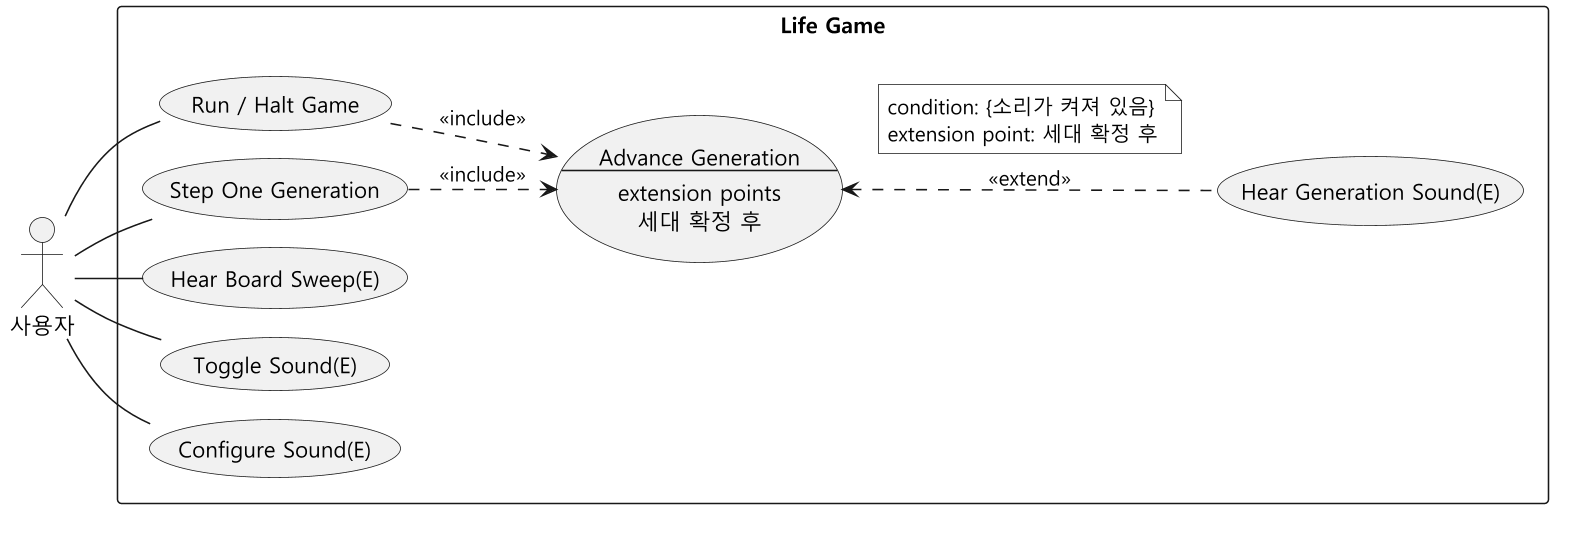
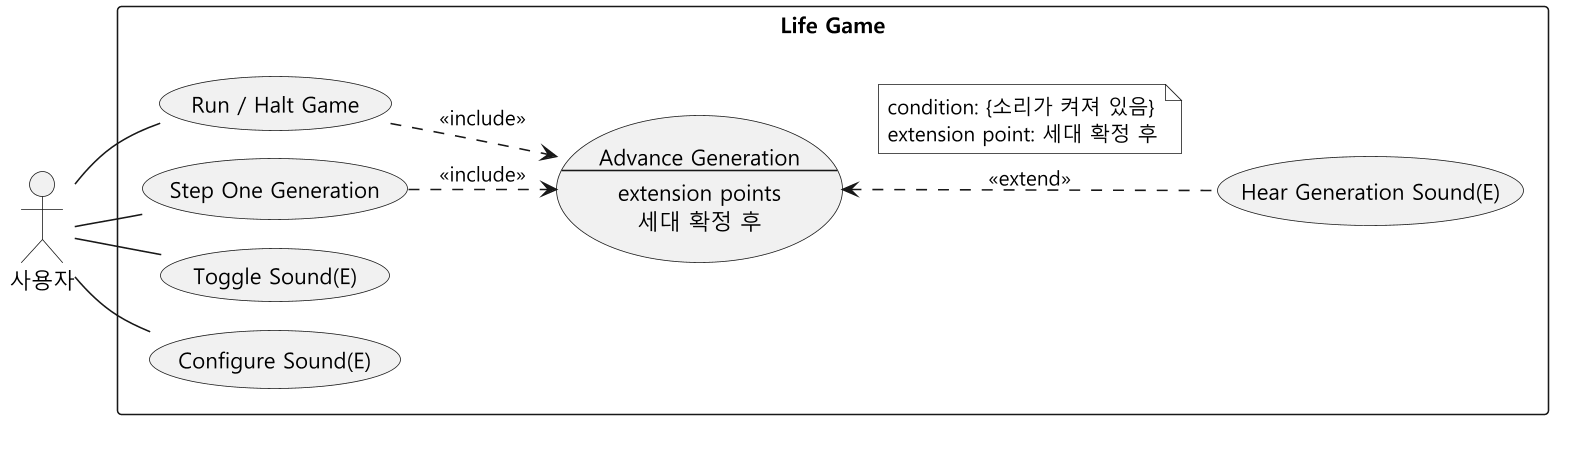
docs(sound): 유스케이스를 전체 유스케이스 다이어그램에 맞춤
- 전체 유스케이스 다이어그램의 사운드 유스케이스는 Hear Generation Sound(E),
  Toggle Sound(E), Configure Sound(E) 세 개라서, 사운드 그림에서 Hear Board
  Sweep(E)와 사용자 연관을 지움
- 재생선은 소리가 켜져 있는 동안 타이머로 도는 동작이라 따로 유스케이스로 두지
  않고 Toggle Sound(E)에 묶음. 재생선이 하는 일은 요구사항 F7, F8과 연산 계약
  CO3에 남기고, 지운 명세에만 있던 강세와 빈 구간 처리를 F7로 옮김
- 기능 명세의 유스케이스 번호를 UC-S1~UC-S3으로 당기고, 요구사항 표와 연산 계약의
  참조, 설계 문서·보고서의 유스케이스 표, 재생선 시퀀스 그림의 제목을 새 구성에
  맞춤
- 연산 계약 CO4에 dragCells()의 유스케이스 Draw Cells by Dragging(E)를 넣음
- Advance Generation의 확장 지점 중 사운드와 관계없는 "다음 세대 계산 후"를
  그리지 않은 이유를 적음

Refs #2

diff --git a/docs/sound-effects/sound-effects-spec.md b/docs/sound-effects/sound-effects-spec.md
@@ -77,7 +77,7 @@ MIDI 신시사이저를 열 수 없는 환경에서는 `Sound disabled: ...` 한
 
 ### 2.1 유스케이스 목록
 
-기존 기능과 추가 기능을 나눠 적었다. 추가한 유스케이스는 이름 끝에 `(E)`를 붙였고, 기존 유스케이스 이름은 팀 전체 유스케이스 다이어그램과 같게 맞췄다.
+기존 기능과 추가 기능을 나눠 적었다. 추가한 유스케이스는 이름 끝에 `(E)`를 붙였다. 유스케이스 이름과 관계는 팀 전체 유스케이스 다이어그램([usecase-overview.png](../usecase-overview.png))의 사운드 부분과 같다.
 
 | 구분 | 유스케이스 | 사운드와의 관계 |
 |---|---|---|
@@ -88,18 +88,17 @@ MIDI 신시사이저를 열 수 없는 환경에서는 `Sound disabled: ...` 한
 | 기존 | Clear Board, Store / Load Board | Clear와 Load로 바뀐 판을 재생선이 다음 스텝부터 연주한다 |
 | 기존 | Exit Game | 관계 없음 |
 | 추가 (UC-S1) | Hear Generation Sound(E) | Advance Generation을 확장한다. 조건은 소리가 켜져 있을 때다 |
-| 추가 (UC-S2) | Hear Board Sweep(E) | 사용자와 직접 연관. 게임 진행과 상관없이 동작한다 |
-| 추가 (UC-S3) | Toggle Sound(E) | 사용자와 직접 연관 |
-| 추가 (UC-S4) | Configure Sound(E) | 사용자와 직접 연관 |
+| 추가 (UC-S2) | Toggle Sound(E) | 사용자와 직접 연관. 켜져 있는 동안 재생선이 돈다 |
+| 추가 (UC-S3) | Configure Sound(E) | 사용자와 직접 연관 |
 
 ![사운드 이펙트 유스케이스 다이어그램](diagram/usecase.png)
 
-그림 원본은 [diagram/usecase.puml](diagram/usecase.puml)이다. 시스템 경계는 "Life Game" 상자 하나다. 기존 유스케이스는 사운드와 «include»·«extend»로 이어지는 Run / Halt Game, Step One Generation, Advance Generation만 그렸다. Edit Cells, Clear Board, Store / Load Board, Exit Game은 사운드와 이런 관계가 없어서 위 표에만 적었다. 그림에 있는 관계는 이렇다.
+그림 원본은 [diagram/usecase.puml](diagram/usecase.puml)이다. 시스템 경계는 "Life Game" 상자 하나다. 기존 유스케이스는 사운드와 «include»·«extend»로 이어지는 Run / Halt Game, Step One Generation, Advance Generation만 그렸다. Edit Cells, Clear Board, Store / Load Board, Exit Game은 사운드와 이런 관계가 없어서 위 표에만 적었다. Advance Generation에는 Freezing 기능이 쓰는 확장 지점("다음 세대 계산 후")도 있지만, 사운드와 관계가 없어 그림에는 적지 않았다. 그림에 있는 관계는 이렇다.
 
 - «include»: 게임을 실행하면(Run / Halt Game) 틱마다, Step One Generation을 고르면 한 번 세대가 진행된다(Advance Generation). 할 때마다 반드시 따라오는 일이라 include로 그렸다. Halt는 세대 진행을 멈추기만 한다.
 - «extend»: 세대가 확정된 뒤(확장점 "세대 확정 후") 소리가 켜져 있을 때만 Hear Generation Sound(E)가 끼어든다. 소리가 꺼져 있어도 세대 진행에는 아무 문제가 없어서 extend로 그렸다.
 - Hear Generation Sound(E)는 사용자가 직접 시작하는 일이 아니라 세대 진행에 붙어서 일어나서, 사용자와 선으로 잇지 않았다.
-- Hear Board Sweep(E)는 게임 진행과 관계없이 150ms 타이머로 돌아서 기존 유스케이스와 include·extend 관계가 없다.
+- 재생선은 따로 유스케이스로 두지 않았다. 사용자가 그때마다 요청하는 일이 아니라, 소리가 켜져 있는 동안 150ms 타이머로 계속 도는 동작이기 때문이다. 소리 전체를 켜고 끄는 Toggle Sound(E)(UC-S2)에 묶었고, 재생선이 하는 일은 요구사항 F7, F8과 연산 계약 CO3([sound-uml.md](sound-uml.md) 4.3절)에 적었다. 설정 창에서 재생선만 끄는 것은 Configure Sound(E)(UC-S3)다.
 
 ### 2.2 유스케이스 명세
 
@@ -131,42 +130,17 @@ MIDI 신시사이저를 열 수 없는 환경에서는 `Sound disabled: ...` 한
 - 1d. 직전 세대 소리를 낸 지 120ms가 지나지 않았으면 이번 세대는 건너뛴다. 빠른 속도에서 소리가 뭉치지 않게 하려고 넣었다.
 - 3a. 한 세대에 12개 이상 생기면 같은 화음을 한 옥타브 위에서 조금 작게 한 번 더 낸다.
 - 4a. 작은 흔들림이 켜져 있으면 음마다 시작이 0~15ms 늦어지고 세기가 조금씩 달라지며, 가끔 한 옥타브 위 음이 섞인다.
-- 4b. 설정에서 끈 항목은 UC-S4의 설정 항목 표대로 동작이 바뀐다. 예를 들어 스트럼을 끄면 음 사이의 25ms 간격 없이 내고, 코드 진행을 끄면 늘 C 코드의 5음을 쓴다.
+- 4b. 설정에서 끈 항목은 UC-S3의 설정 항목 표대로 동작이 바뀐다. 예를 들어 스트럼을 끄면 음 사이의 25ms 간격 없이 내고, 코드 진행을 끄면 늘 C 코드의 5음을 쓴다.
 
-#### UC-S2 Hear Board Sweep(E)
-
-| 항목 | 내용 |
-|---|---|
-| 목표 | 게임을 멈춰 둔 상태에서도 지금 판의 모양을 소리로 듣는다 |
-| 액터 | 사용자 |
-| 시작 | 프로그램이 시작되면 150ms마다 저절로 진행한다 |
-| 사전 조건 | MIDI 신시사이저가 열려 있다. `Sound`가 `On`이다. 게임이 실행 중이든 멈춰 있든 상관없다 |
-| 사후 조건 | 재생선 위치가 판 위에 초록 선으로 표시되고, 선 아래 산 셀의 소리가 예약된다 |
-
-기본 흐름
-
-1. 150ms마다 시스템은 재생선을 4열 오른쪽으로 옮기고 그 자리에 초록 선을 그린다.
-2. 시스템은 재생선이 지나는 4열 안의 산 셀로 최대 3음을 낸다. 4스텝에 한 번은 조금 더 세게 내서 박자가 느껴지게 한다.
-3. 시스템은 현재 코드의 패드를 낸다. 산 셀이 많을수록 크게 내되 상한이 있다.
-4. 16스텝(64열, 약 2.4초)을 돌면 처음으로 돌아가고, 코드가 C → Am → F → G 순서로 바뀐다. 생성음과 재생선이 쓰는 5음도 함께 바뀐다.
-
-대안 흐름
-
-- 1a. 사용자가 셀을 편집하거나(Edit Cells, Draw Cells by Dragging(E)) Clear, Load, 템플릿 배치·되돌리기(Place Template(E), Undo Placement(E))를 하면 다음 스텝부터 바뀐 판을 연주한다.
-- 1b. 설정에서 재생선을 끄면 선을 지우고 연주하지 않는다. 패드는 따로 켜고 끈다.
-- 2a. 재생선이 지나는 4열에 산 셀이 없으면 그 스텝은 조용하다.
-- 3a. 판이 비어 있거나 설정에서 패드를 끄면 패드를 끈다. 재생선은 계속 움직인다.
-- 4a. 설정에서 코드 진행을 끄면 코드는 C에 머문다.
-
-#### UC-S3 Toggle Sound(E)
+#### UC-S2 Toggle Sound(E)
 
 | 항목 | 내용 |
 |---|---|
 | 목표 | 소리를 잠시 끄거나 다시 켠다 |
 | 액터 | 사용자 |
 | 시작 | 사용자가 `Sound` 메뉴에서 `Off` 또는 `On`을 고른다 |
-| 사전 조건 | MIDI 신시사이저가 열려 있다. 열 수 없으면 `Sound` 메뉴가 생기지 않는다 |
-| 사후 조건 | Off면 새 소리를 예약하지 않고, 다음 스텝에 패드를 끄고 재생선을 지운다. 이미 예약된 음은 예정대로 울리고 꺼진다. On이면 다음 스텝부터 다시 연주한다 |
+| 사전 조건 | MIDI 신시사이저가 열려 있다. 열 수 없으면 `Sound` 메뉴가 생기지 않는다. 프로그램을 시작하면 소리는 켜져 있다 |
+| 사후 조건 | Off면 새 소리를 예약하지 않고, 다음 스텝에 패드를 끄고 재생선을 지운다. 이미 예약된 음은 예정대로 울리고 꺼진다. On이면 다음 스텝부터 재생선이 다시 돌며 판을 연주한다 |
 
 기본 흐름
 
@@ -180,7 +154,9 @@ MIDI 신시사이저를 열 수 없는 환경에서는 `Sound disabled: ...` 한
 - 2a. Off인 동안에도 판이 바뀐 내용은 계속 받아 둔다. 그래서 On으로 바꾸면 그 사이에 편집한 판을 바로 연주한다.
 - 2b. Off를 고르기 전에 이미 예약된 음은 예정대로 울리고 꺼진다.
 
-#### UC-S4 Configure Sound(E)
+켜져 있는 동안 재생선은 150ms마다 4열씩 움직여 16스텝(약 2.4초)에 판을 한 바퀴 돈다. 지나는 구간의 산 셀을 연주하고, 밑에는 현재 코드의 패드를 깐다. 게임이 실행 중이든 멈춰 있든 같고, 셀 편집(Edit Cells, Draw Cells by Dragging(E)), Clear, Load, 템플릿 배치·되돌리기(Place Template(E), Undo Placement(E))로 바뀐 판은 다음 스텝부터 연주한다. 자세한 동작은 요구사항 F7, F8에 있다.
+
+#### UC-S3 Configure Sound(E)
 
 | 항목 | 내용 |
 |---|---|
@@ -229,11 +205,11 @@ MIDI 신시사이저를 열 수 없는 환경에서는 `Sound disabled: ...` 한
 | F4 | 12개 이상 생긴 세대는 한 옥타브 위 화음을 조금 작게 겹친다 | UC-S1 | `smallGenerationsHaveNoBurstLayer`, `burstLayerDoublesNotesAnOctaveHigherAndQuieter`, `largeBirthEventKeepsTheBurstLayer` |
 | F5 | 변화가 없는 세대와, 세대 진행이 아닌 판 변경(편집·Clear·Load·템플릿·색 변경)은 세대 소리를 내지 않는다 | UC-S1 | `stableAndEmptyGenerationsNeverScheduleGenerationSounds`, `nonGenerationEventUpdatesSweepWithoutGenerationSounds`, `realColorMenuRefreshesStatisticsWithoutSchedulingGenerationSound` |
 | F6 | 같은 변화가 되풀이되면 12번에 걸쳐 무음까지 줄이고, 새 변화가 오면 원래 크기로 돌아간다. 판이 전멸하면 마무리 화음을 한 번 낸다 | UC-S1 | `RepeatTrackerTest` 3개, `scalingLowersLoudnessOnly`, `endingChordIsAboveThePadOfTheSameChord`, `extinctionPlaysOneEndingAndLaterEmptyTicksStaySilent` |
-| F7 | 재생선은 150ms마다 4열씩 움직이며 그 구간의 산 셀을 최대 3음으로 연주하고, 판 위에 초록 선으로 보인다. 게임이 멈춰 있어도 동작하고 편집한 판을 반영한다 | UC-S2 | `sweepPlaysOnlyCellsInTheColumnBlock`, `sweepLimitsVoicesAndAccentsTheBeat`, `sweepOfAnEmptyBlockIsSilent`, `playheadIsDrawnOverTheBoardAndCanBeRemoved`, `initialSnapshotIsReadyBeforeTheFirstScheduledSweep` |
+| F7 | 재생선은 150ms마다 4열씩 움직이며 그 구간의 산 셀을 최대 3음으로 연주하고, 4스텝마다 조금 세게 낸다. 산 셀이 없는 구간은 조용하다. 판 위에 초록 선으로 보인다. 게임이 멈춰 있어도 동작하고 편집한 판을 반영한다 | UC-S2 | `sweepPlaysOnlyCellsInTheColumnBlock`, `sweepLimitsVoicesAndAccentsTheBeat`, `sweepOfAnEmptyBlockIsSilent`, `playheadIsDrawnOverTheBoardAndCanBeRemoved`, `initialSnapshotIsReadyBeforeTheFirstScheduledSweep` |
 | F8 | 재생선이 한 바퀴 돌 때마다 코드가 C → Am → F → G로 바뀌고 패드도 같은 코드를 따른다. 패드는 산 셀이 많을수록 커지고 빈 판이면 꺼진다 | UC-S2 | `sameCellChangesPitchAcrossTheProgression`, `progressionWrapsAround`, `padFollowsTheProgression`, `padGrowsWithLiveCellsUpToACapAndStopsOnAnEmptyBoard` |
 | F9 | 작은 흔들림은 세기를 ±8, 시작을 0~15ms 바꾸고, 12% 확률로 한 옥타브 올린다 | UC-S1, UC-S2 | `humanizingKeepsNotesValidAndVariesThem`, `timingJitterStaysSmall` |
-| F10 | `Sound` → `Off`면 새 소리를 예약하지 않고 다음 스텝에 패드와 재생선을 멈춘다. 이미 예약된 음은 예정대로 끝난다. `On`으로 바꾸면 Off 동안 바뀐 판을 연주한다 | UC-S3 | `disabledSoundStillReceivesEditsForTheNextSweep` |
-| F11 | 설정 창에서 9개 항목을 하나씩 끄고, 5개 항목의 악기를 바꿀 수 있다 | UC-S4 | `SoundSettingsTest` 3개 |
+| F10 | `Sound` → `Off`면 새 소리를 예약하지 않고 다음 스텝에 패드와 재생선을 멈춘다. 이미 예약된 음은 예정대로 끝난다. `On`으로 바꾸면 Off 동안 바뀐 판을 연주한다 | UC-S2 | `disabledSoundStillReceivesEditsForTheNextSweep` |
+| F11 | 설정 창에서 9개 항목을 하나씩 끄고, 5개 항목의 악기를 바꿀 수 있다 | UC-S3 | `SoundSettingsTest` 3개 |
 | F12 | Freezing으로 고정된 셀은 세대 소리를 내지 않고, 풀린 첫 세대부터 다시 들린다. 재생선은 고정된 산 셀도 연주한다 | UC-S1, UC-S2 | `FreezingSoundIntegrationTest` 3개 |
 
 ### 3.2 비기능 요구사항

diff --git a/docs/sound-effects/sound-report.md b/docs/sound-effects/sound-report.md
@@ -11,8 +11,7 @@
 | 유스케이스 | 동작 |
 |---|---|
 | Hear Generation Sound(E) | 세대가 확정되면 생긴 셀을 최대 5음 화음으로 왼쪽 음부터 25ms 간격으로 내고, 사라진 셀이 있으면 60ms 뒤 타악기를 한 번 친다. 위쪽 셀일수록 높은 음이고, 열 위치는 좌우 위치가 된다. Advance Generation의 확장점 "세대 확정 후"에서 소리가 켜져 있을 때만 일어난다 |
-| Hear Board Sweep(E) | 재생선이 150ms마다 4열씩 움직이며 그 구간의 산 셀을 최대 3음으로 연주하고, 밑에는 현재 코드의 저음 패드를 깐다. 게임이 멈춰 있어도 돈다 |
-| Toggle Sound(E) | `Sound` 메뉴의 `On`, `Off`로 소리 전체를 켜고 끈다 |
+| Toggle Sound(E) | `Sound` 메뉴의 `On`, `Off`로 소리 전체를 켜고 끈다. 켜져 있는 동안 재생선이 150ms마다 4열씩 움직이며 그 구간의 산 셀을 최대 3음으로 연주하고, 밑에는 현재 코드의 저음 패드를 깐다. 게임이 멈춰 있어도 돈다 |
 | Configure Sound(E) | `Sound` → `Settings` 창에서 9개 항목을 하나씩 끄고, 5개 항목의 악기를 바꾼다. 모달 창이 아니라서 창을 띄워 둔 채 게임을 진행할 수 있다 |
 
 음높이는 판의 세로 64행을 C3부터 3옥타브(15음)로 나눠 정한다. 한 옥타브 안에서는 현재 코드에 맞춘 5음만 쓰고, 코드는 재생선이 한 바퀴(16스텝, 약 2.4초) 돌 때마다 C → Am → F → G 순서로 바뀐다.
@@ -331,11 +330,11 @@ void everyPitchIsInCMajor()
 
 ## 유스케이스 (사운드 부분)
 
-확장 유스케이스는 Hear Generation Sound(E), Hear Board Sweep(E), Toggle Sound(E), Configure Sound(E) 네 개다. Hear Generation Sound(E)는 Advance Generation의 확장점 "세대 확정 후"에 extend로 붙고, 조건은 소리가 켜져 있는 것이다. Run / Halt Game과 Step One Generation이 Advance Generation을 include하는 구조는 색 순환, Freezing, 통계와 같다. 나머지 세 유스케이스는 사용자와 직접 이어지고, Hear Board Sweep(E)는 150ms 타이머로 돌기 때문에 기존 유스케이스와 include·extend 관계가 없다.
+확장 유스케이스는 Hear Generation Sound(E), Toggle Sound(E), Configure Sound(E) 세 개다. Hear Generation Sound(E)는 Advance Generation의 확장점 "세대 확정 후"에 extend로 붙고, 조건은 소리가 켜져 있는 것이다. Run / Halt Game과 Step One Generation이 Advance Generation을 include하는 구조는 색 순환, Freezing, 통계와 같다. 나머지 두 유스케이스는 사용자와 직접 이어진다. 재생선은 소리가 켜져 있는 동안 150ms 타이머로 계속 도는 동작이라 유스케이스를 따로 두지 않고 Toggle Sound(E)에 묶었다.
 
 ![사운드 이펙트 유스케이스 다이어그램](diagram/usecase.png)
 
-그림 S-9. 사운드 이펙트 유스케이스 (팀 전체 그림에 합칠 때는 이 관계를 그대로 쓴다)
+그림 S-9. 사운드 이펙트 유스케이스 (팀 전체 유스케이스 다이어그램의 사운드 부분)
 
 ## 기능 간 연동 (사운드 부분)
 

diff --git a/docs/sound-effects/sound-uml.md b/docs/sound-effects/sound-uml.md
@@ -115,7 +115,7 @@ Command 패턴의 역할은 그림의 범례에 적었다. `SoundEffects`(Client
 
 | 항목 | 내용 |
 |---|---|
-| Cross References | Hear Board Sweep(E), Toggle Sound(E), Configure Sound(E) |
+| Cross References | Toggle Sound(E), Configure Sound(E) |
 | Preconditions | 없음 |
 | Postconditions | MIDI 신시사이저를 열 수 있었으면: `SoundEffects` 인스턴스 `effects`가 생성되었다. `effects`가 `Universe.boardListeners`와 연관되었다. `effects.latestCells`가 시작 시점 판의 복사본이 되었다. `effects.enabled`가 true, `effects.chord`와 `effects.step`이 0이 되었다. `SoundSettings` 인스턴스 `settings`가 생성되어 `effects`와 연관되었고, 9개 기능이 모두 켜짐, 악기는 각 목록의 첫 번째가 되었다. `playStep` 명령이 150ms 주기로 `scheduler`와 연관되었다. Sound 메뉴 항목 3개가 등록되었다. 열 수 없었으면: `SoundEffects` 인스턴스가 생성되지 않았고 `Universe.boardListeners`에 사운드가 없다 |
 
@@ -131,7 +131,7 @@ Command 패턴의 역할은 그림의 범례에 적었다. `SoundEffects`(Client
 
 | 항목 | 내용 |
 |---|---|
-| Cross References | Hear Board Sweep(E) |
+| Cross References | Toggle Sound(E) (켜져 있는 동안 도는 재생선, 기능 요구사항 F7·F8) |
 | Preconditions | `effects.latestCells`가 null이 아니다 |
 | Postconditions | `effects.enabled`가 true인 경우: `Universe.playhead`가 `step × 4`가 되었다(재생선이 꺼져 있으면 -1). 그 4열 안의 산 셀로 고른 음마다 켜기·끄기 명령 한 쌍(최대 3쌍)이 `scheduler`와 연관되었다. `effects.padNotes`가 현재 코드의 패드 음이 되었다(패드 세기가 0이면 빈 배열). `effects.step`이 `(step + 1) % 16`이 되었고, 0이 되었으면 `effects.chord`가 1 늘었다. `effects.enabled`가 false인 경우: `effects.padNotes`가 빈 배열, `Universe.playhead`가 -1이 되었다. `step`과 `chord`는 바뀌지 않았다 |
 
@@ -139,7 +139,7 @@ Command 패턴의 역할은 그림의 범례에 적었다. `SoundEffects`(Client
 
 | 항목 | 내용 |
 |---|---|
-| Cross References | Edit Cells, Clear Board, Store / Load Board, Place Template(E), Undo Placement(E), Hear Board Sweep(E) |
+| Cross References | Edit Cells, Draw Cells by Dragging(E), Clear Board, Store / Load Board, Place Template(E), Undo Placement(E) |
 | Preconditions | 각 연산의 원래 사전 조건. `effects`가 설치되어 있다 |
 | Postconditions | (각 연산의 원래 사후 조건에 더해) `effects.latestCells`가 편집 후 판의 복사본으로 바뀌었다. 소리 명령은 `scheduler`와 연관되지 않았다 |
 

diff --git a/docs/sound-effects/sound-effects.md b/docs/sound-effects/sound-effects.md
@@ -16,16 +16,17 @@
 
 ### 1.1 유스케이스
 
-확장한 유스케이스는 이름 끝에 `(E)`를 붙였다. 기존 유스케이스 이름은 팀 전체 유스케이스 그림과 같게 맞췄고, 유스케이스별 상세 흐름은 [sound-effects-spec.md](sound-effects-spec.md) 2장에 있다.
+확장한 유스케이스는 이름 끝에 `(E)`를 붙였다. 유스케이스 이름과 관계는 팀 전체 유스케이스 그림의 사운드 부분과 같고, 유스케이스별 상세 흐름은 [sound-effects-spec.md](sound-effects-spec.md) 2장에 있다.
 
 ![사운드 이펙트 유스케이스 다이어그램](diagram/usecase.png)
 
 | 유스케이스 | 내용 |
 |---|---|
 | Hear Generation Sound(E) | 세대마다 생긴 셀은 화음, 사라진 셀은 타악기로 들린다. 세대를 확정한 뒤(Advance Generation의 확장점) 소리가 켜져 있으면 동작한다. |
-| Hear Board Sweep(E) | 재생선이 판을 반복해서 훑으며 산 셀을 연주한다. 게임이 멈춰 있어도 동작한다. |
-| Toggle Sound(E) | `Sound` 메뉴에서 소리 전체를 켜고 끈다. 끄면 재생선도 사라진다. |
+| Toggle Sound(E) | `Sound` 메뉴에서 소리 전체를 켜고 끈다. 켜져 있는 동안 재생선이 판을 반복해서 훑으며 산 셀을 연주하고, 끄면 재생선도 사라진다. |
 | Configure Sound(E) | 설정 창에서 기능별 on/off와 악기를 바꾼다. |
+
+재생선은 소리가 켜져 있는 동안 타이머로 계속 도는 동작이라 유스케이스를 따로 두지 않고 Toggle Sound(E)에 묶었다. 게임이 멈춰 있어도 돈다.
 
 ### 1.2 소리를 정하는 규칙
 
